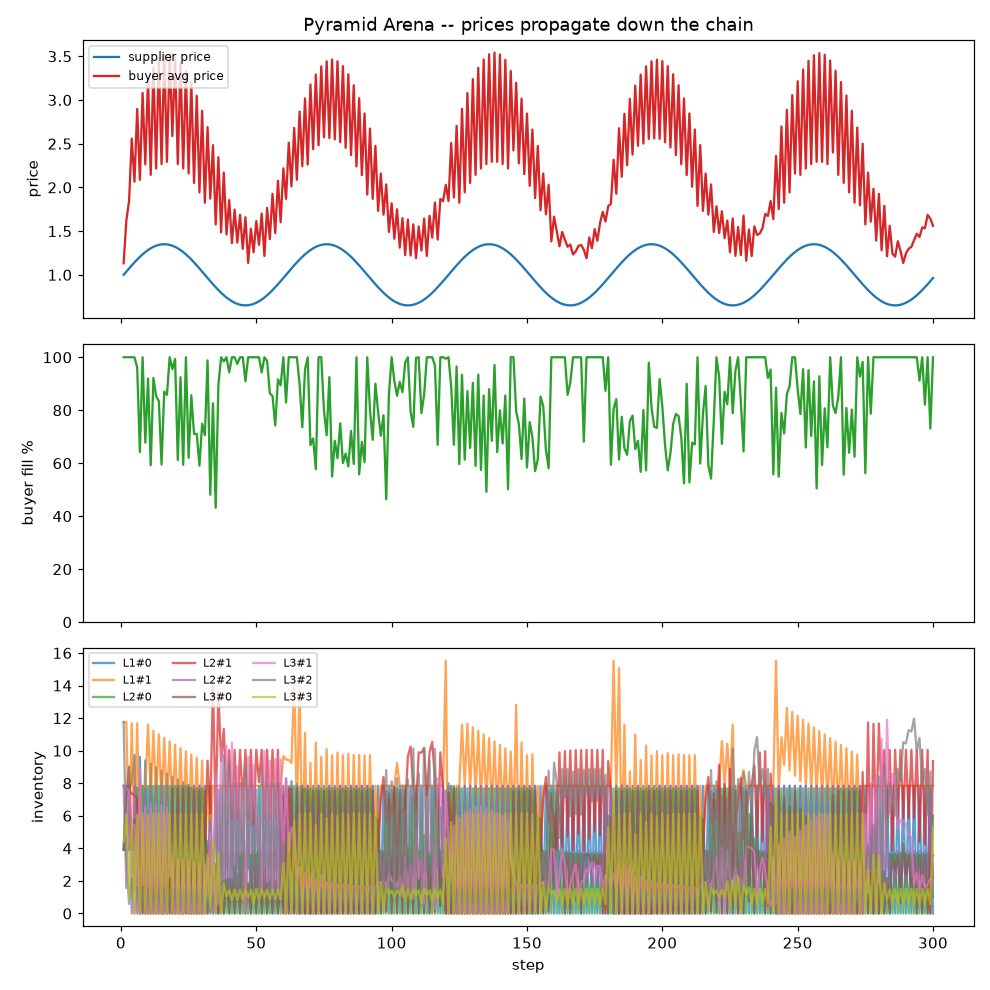
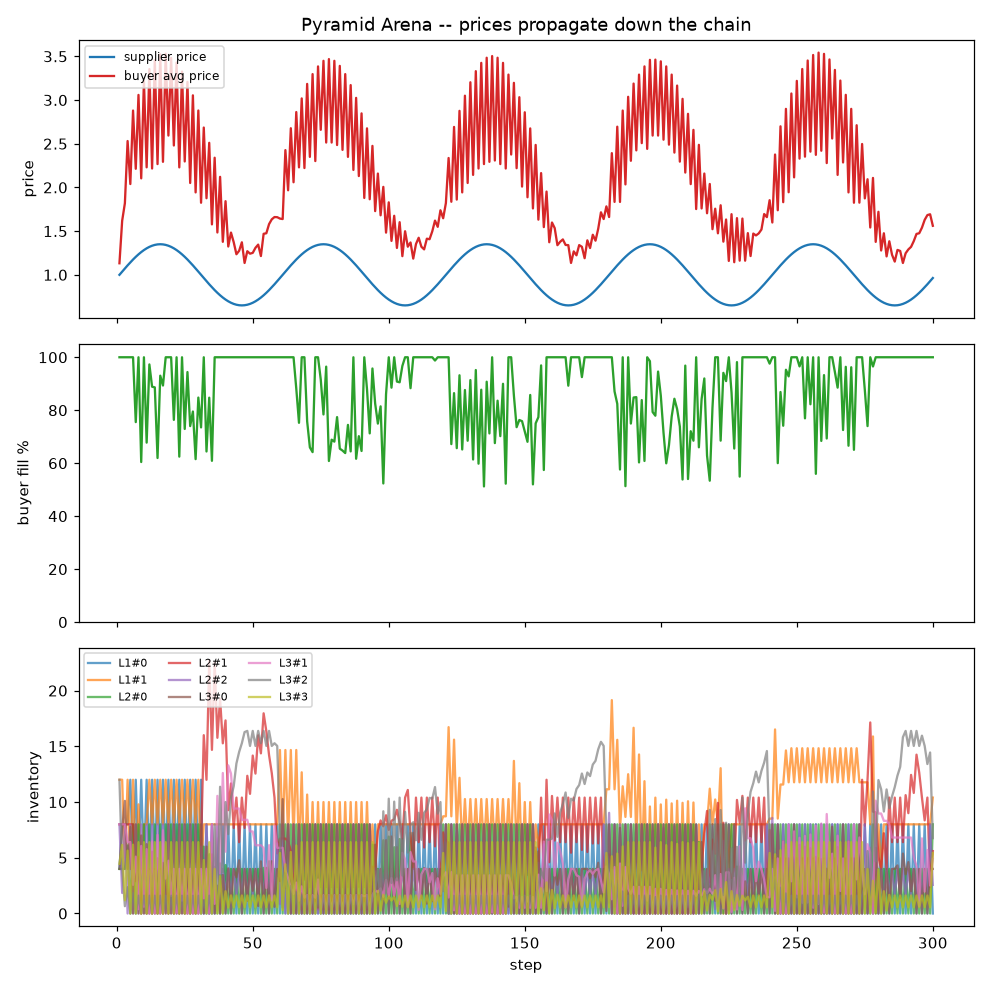
Remove spoilage from both arena models
Water no longer decays in storage. Dropped the spoilage config field and
the decay step from the flat World and the pyramid supply chain, updated
docstrings, tests, and README. Inventories are now conserved exactly
(sold == bought per node in the pyramid).

Claude-Session: https://claude.ai/code/session_01P5fKFs14aMsXNBLMuPST64

diff --git a/water-arena/water_arena/world.py b/water-arena/water_arena/world.py
@@ -9,8 +9,7 @@ Each step:
    are settled.
 4. **Consumption** -- each agent must consume its demand; any shortfall incurs
    a cash penalty (buying emergency water / going thirsty).
-5. **Spoilage** -- a fraction of stored water evaporates.
-6. **Accounting** -- rewards (change in mark-to-market net worth) are recorded
+5. **Accounting** -- rewards (change in mark-to-market net worth) are recorded
    and bankrupt agents (cash < 0) are removed.
 
 The engine is pure standard library. It is deterministic given a seed.
@@ -44,7 +43,6 @@ class WorldConfig:
     base_demand: float = 5.0  # units each agent must consume per step
     demand_noise: float = 0.15  # relative std-dev of demand
     consumption_value: float = 2.0  # cash earned per unit consumed (utility revenue)
-    spoilage: float = 0.02  # fraction of stored water lost per step
     unmet_penalty: float = 3.0  # extra cash penalty per unit of unmet demand
     initial_price: float = 1.0  # reference price before the first clear
     allow_bankruptcy: bool = True  # remove agents whose cash goes negative
@@ -174,7 +172,6 @@ class World:
             self.price_history.append(result.clearing_price)
 
         self._consume(demands)
-        self._spoil()
         self._settle_bankruptcies()
 
         mark = self.reference_price
@@ -301,12 +298,6 @@ class World:
             if shortfall > _EPS:
                 s.total_shortfall += shortfall
                 s.cash -= cfg.unmet_penalty * shortfall
-
-    def _spoil(self) -> None:
-        factor = 1.0 - self.config.spoilage
-        for s in self.states:
-            if s.alive:
-                s.water *= factor
 
     def _settle_bankruptcies(self) -> None:
         if not self.config.allow_bankruptcy:

diff --git a/water-arena/tests/test_world.py b/water-arena/tests/test_world.py
@@ -32,8 +32,8 @@ def test_determinism_with_seed():
 
 
 def test_cash_water_conservation_in_trade():
-    # A pure buyer and a pure seller; no production/consumption/spoilage so the
-    # only balance change comes from trading -> cash and water are conserved.
+    # A pure buyer and a pure seller; no production or consumption so the only
+    # balance change comes from trading -> cash and water are conserved.
     cfg = WorldConfig(
         n_steps=1,
         well_capacity=0.0,
@@ -41,7 +41,6 @@ def test_cash_water_conservation_in_trade():
         drought_prob=0.0,
         base_demand=0.0,
         demand_noise=0.0,
-        spoilage=0.0,
         initial_cash=100.0,
         initial_water=10.0,
         seed=1,
@@ -64,7 +63,6 @@ def test_storage_capacity_respected():
         production_noise=0.0,
         drought_prob=0.0,
         base_demand=0.0,
-        spoilage=0.0,
         seed=3,
     )
     world = World([NeedsTrader(), RandomAgent(seed=2)], cfg)
@@ -74,7 +72,7 @@ def test_storage_capacity_respected():
 
 
 def test_cannot_sell_more_than_held():
-    cfg = WorldConfig(n_steps=1, well_capacity=0.0, base_demand=0.0, spoilage=0.0, seed=0)
+    cfg = WorldConfig(n_steps=1, well_capacity=0.0, base_demand=0.0, seed=0)
     seller = FixedAgent(price=0.5, quantity=-1000, name="seller")  # oversell attempt
     buyer = FixedAgent(price=1.0, quantity=1000, name="buyer")
     world = World([seller, buyer], cfg)

diff --git a/water-arena/water_arena/pyramid.py b/water-arena/water_arena/pyramid.py
@@ -126,7 +126,6 @@ class PyramidConfig:
     initial_cash: float = 100.0
     initial_inventory: float = 8.0
     holding_cost: float = 0.01  # cash per unit of inventory per step
-    spoilage: float = 0.02  # fraction of inventory lost per step
 
     # supplier price process
     supplier_price: float = 1.0
@@ -340,13 +339,12 @@ class PyramidWorld:
         filled, avg_price = self._buyer_purchase(buyer_need)
         self.total_unmet += buyer_need - filled
 
-        # 4. deliveries arrive; apply holding cost and spoilage
+        # 4. deliveries arrive; apply holding cost
         for s in self.states.values():
             if not s.alive:
                 continue
             s.inventory = min(cfg.storage_capacity, s.inventory + s.incoming)
             s.cash -= cfg.holding_cost * s.inventory
-            s.inventory *= 1.0 - cfg.spoilage
             s.total_sold += s.sold_this
             s.total_bought += s.bought_this
             s.last_sold_v = s.sold_this

diff --git a/water-arena/tests/test_pyramid.py b/water-arena/tests/test_pyramid.py
@@ -63,7 +63,6 @@ def test_pipeline_capacity_caps_flow():
         initial_cash=1e6,
         supplier_price_mode="constant",
         supplier_price=1.0,
-        spoilage=0.0,
         holding_cost=0.0,
     )
     topo = build_pyramid(cfg.n_layers, cfg.pipeline_capacity)

diff --git a/water-arena/README.md b/water-arena/README.md
@@ -45,13 +45,12 @@ Every step runs six phases:
 4. **Consumption** — each agent must consume its demand. Every unit consumed
    earns `consumption_value` in cash (you're a utility delivering water to
    end-users); unmet demand incurs a penalty.
-5. **Spoilage** — a fraction of stored water evaporates.
-6. **Accounting** — rewards (change in mark-to-market net worth) are recorded;
+5. **Accounting** — rewards (change in mark-to-market net worth) are recorded;
    agents whose cash goes negative go **bankrupt** and leave.
 
 Because consumption produces value, the economy is **positive-sum** and price
-settles near water's marginal value to buyers — but scarcity, droughts, storage
-limits, and spoilage make *when* and *how much* to trade a real problem.
+settles near water's marginal value to buyers — but scarcity, droughts, and
+storage limits make *when* and *how much* to trade a real problem.
 
 ## Install & run
 
@@ -225,7 +224,7 @@ tests/              market + world + pyramid invariants (pytest)
 ## Tuning the economy
 
 Everything lives in `WorldConfig` — well capacity and spread, drought
-probability, demand, consumption value, spoilage, storage, the bankruptcy rule,
+probability, demand, consumption value, storage, the bankruptcy rule,
 and the seed. Crank `drought_prob` for a harsher world, widen
 `well_capacity_spread` to sharpen the producer/consumer divide, or drop
 `consumption_value` to squeeze margins.
